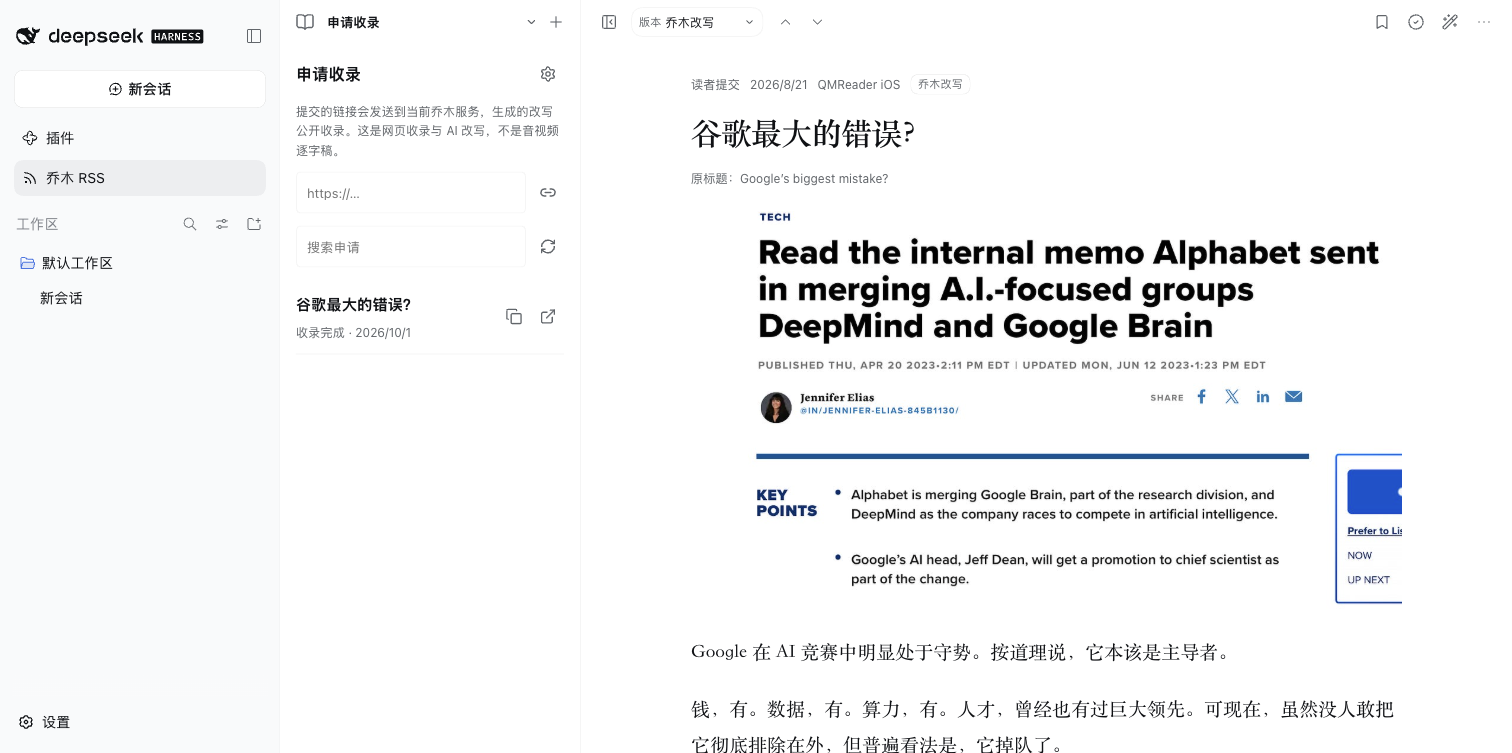
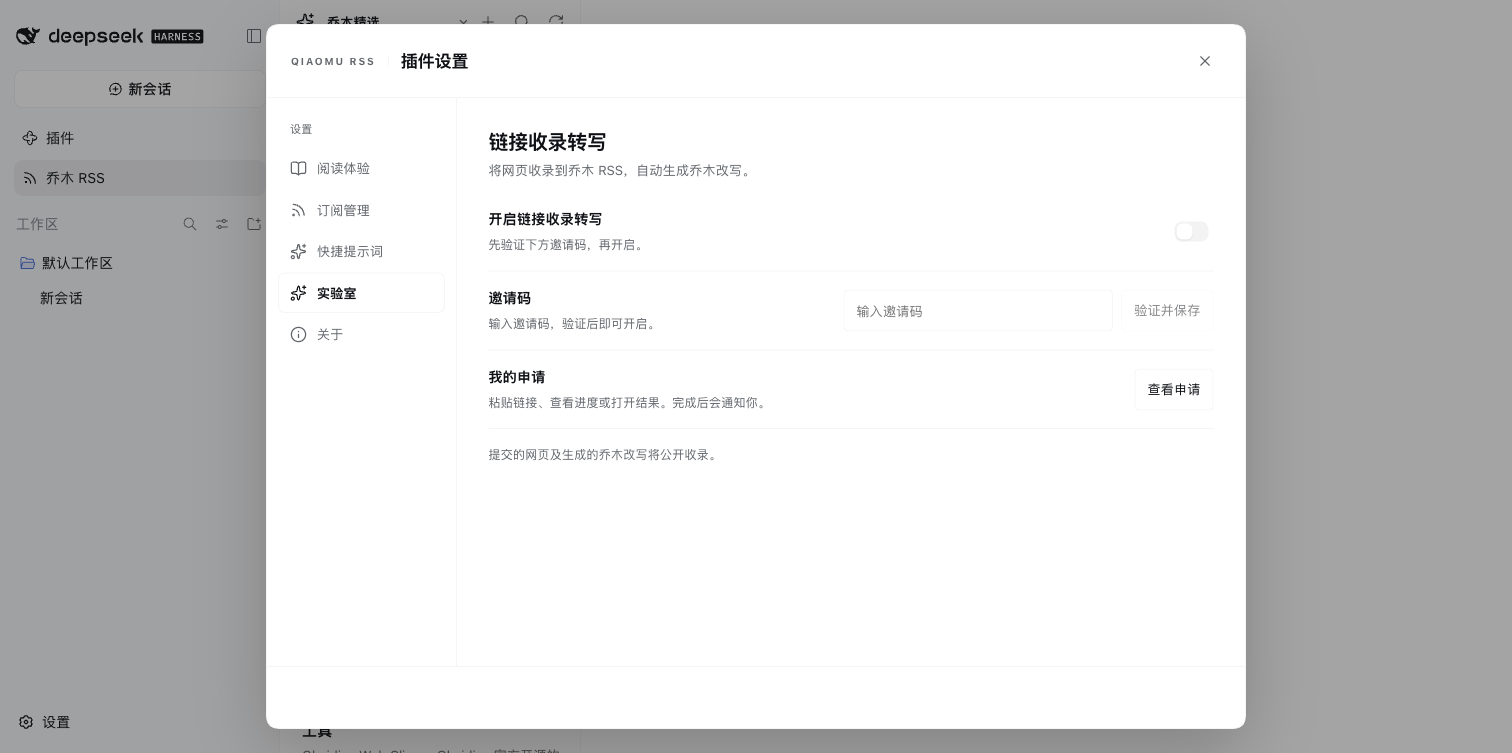
fix: align Labs settings and actions with Obsidian

diff --git a/lib/client.js b/lib/client.js
@@ -1449,22 +1449,32 @@ var import_react6 = require("react");
 var messages = {
   zh: {
     lab: "\u5B9E\u9A8C\u5BA4",
-    title: "\u94FE\u63A5\u6536\u5F55\u4E0E\u6539\u5199",
-    intro: "\u628A\u7F51\u9875\u4EA4\u7ED9\u4E54\u6728\u670D\u52A1\u6536\u5F55\uFF0C\u5B8C\u6210\u540E\u5728\u8FD9\u91CC\u9605\u8BFB\u548C\u63D0\u95EE\u3002",
-    disclosure: "\u63D0\u4EA4\u7684\u94FE\u63A5\u4F1A\u53D1\u9001\u5230\u5F53\u524D\u4E54\u6728\u670D\u52A1\uFF0C\u751F\u6210\u7684\u6539\u5199\u516C\u5F00\u6536\u5F55\u3002\u8FD9\u662F\u7F51\u9875\u6536\u5F55\u4E0E AI \u6539\u5199\uFF0C\u4E0D\u662F\u97F3\u89C6\u9891\u9010\u5B57\u7A3F\u3002",
-    enabled: "\u542F\u7528\u94FE\u63A5\u6536\u5F55",
+    enableFirst: "\u5148\u9A8C\u8BC1\u4E0B\u65B9\u9080\u8BF7\u7801\uFF0C\u518D\u5F00\u542F\u3002",
+    enableHint: "\u5F00\u542F\u540E\uFF0C\u53F3\u952E\u6587\u7AE0\u4E2D\u7684\u94FE\u63A5\uFF0C\u9009\u62E9\u201C\u7533\u8BF7\u6536\u5F55\u8F6C\u5199\u201D\u3002\u66F4\u6539\u81EA\u52A8\u4FDD\u5B58\u3002",
+    inviteDraft: "\u70B9\u51FB\u201C\u9A8C\u8BC1\u5E76\u4FDD\u5B58\u201D\uFF0C\u786E\u8BA4\u9080\u8BF7\u7801\u53EF\u7528\u3002",
+    replaceInvite: "\u5DF2\u4FDD\u5B58\uFF1B\u8F93\u5165\u53EF\u66F4\u6362",
+    myRequests: "\u6211\u7684\u7533\u8BF7",
+    requestsHint: "\u7C98\u8D34\u94FE\u63A5\u3001\u67E5\u770B\u8FDB\u5EA6\u6216\u6253\u5F00\u7ED3\u679C\u3002\u5B8C\u6210\u540E\u4F1A\u901A\u77E5\u4F60\u3002",
+    viewRequests: "\u67E5\u770B\u7533\u8BF7",
+    loading: "\u6B63\u5728\u52A0\u8F7D\u2026",
+    enabledNotice: "\u94FE\u63A5\u6536\u5F55\u8F6C\u5199\u5DF2\u5F00\u542F",
+    disabledNotice: "\u94FE\u63A5\u6536\u5F55\u8F6C\u5199\u5DF2\u5173\u95ED",
+    title: "\u94FE\u63A5\u6536\u5F55\u8F6C\u5199",
+    intro: "\u5C06\u7F51\u9875\u6536\u5F55\u5230\u4E54\u6728 RSS\uFF0C\u81EA\u52A8\u751F\u6210\u4E54\u6728\u6539\u5199\u3002",
+    disclosure: "\u63D0\u4EA4\u7684\u7F51\u9875\u53CA\u751F\u6210\u7684\u4E54\u6728\u6539\u5199\u5C06\u516C\u5F00\u6536\u5F55\u3002",
+    enabled: "\u5F00\u542F\u94FE\u63A5\u6536\u5F55\u8F6C\u5199",
     invite: "\u9080\u8BF7\u7801",
-    inviteHint: "\u8F93\u5165\u9080\u8BF7\u7801\uFF1B\u7559\u7A7A\u4FDD\u7559\u5DF2\u9A8C\u8BC1\u914D\u7F6E",
+    inviteHint: "\u8F93\u5165\u9080\u8BF7\u7801",
     verify: "\u9A8C\u8BC1\u5E76\u4FDD\u5B58",
     save: "\u4FDD\u5B58",
-    saving: "\u5904\u7406\u4E2D\u2026",
+    saving: "\u9A8C\u8BC1\u4E2D\u2026",
     verified: "\u9080\u8BF7\u7801\u5DF2\u9A8C\u8BC1",
-    unverified: "\u5C1A\u672A\u9A8C\u8BC1\u9080\u8BF7\u7801",
+    unverified: "\u8F93\u5165\u9080\u8BF7\u7801\uFF0C\u9A8C\u8BC1\u540E\u5373\u53EF\u5F00\u542F\u3002",
     url: "\u7F51\u9875\u94FE\u63A5",
     submit: "\u63D0\u4EA4\u6536\u5F55",
     submitting: "\u63D0\u4EA4\u4E2D\u2026",
     submitted: "\u6536\u5F55\u7533\u8BF7\u5DF2\u4FDD\u5B58",
-    jobs: "\u7533\u8BF7\u6536\u5F55",
+    jobs: "\u6211\u7684\u7533\u8BF7",
     refresh: "\u5237\u65B0\u7533\u8BF7",
     more: "\u52A0\u8F7D\u66F4\u591A\u7533\u8BF7",
     empty: "\u8FD8\u6CA1\u6709\u6536\u5F55\u7533\u8BF7",
@@ -1477,7 +1487,7 @@ var messages = {
     failed: "\u5904\u7406\u5931\u8D25",
     copy: "\u590D\u5236\u94FE\u63A5",
     copied: "\u94FE\u63A5\u5DF2\u590D\u5236",
-    request: "\u7533\u8BF7\u6536\u5F55\u6539\u5199",
+    request: "\u7533\u8BF7\u6536\u5F55\u8F6C\u5199",
     settings: "\u5B9E\u9A8C\u5BA4\u8BBE\u7F6E",
     configured: "\u5B9E\u9A8C\u5BA4\u8BBE\u7F6E\u5DF2\u4FDD\u5B58",
     offline: "\u6682\u65F6\u65E0\u6CD5\u540C\u6B65\uFF0C\u5DF2\u4FDD\u7559\u672C\u673A\u7533\u8BF7",
@@ -1486,9 +1496,19 @@ var messages = {
   },
   en: {
     lab: "Labs",
+    enableFirst: "Verify your invitation code below to enable this feature.",
+    enableHint: "Right-click a link in an article and choose \u201CCollect and rewrite\u201D. Changes save automatically.",
+    inviteDraft: "Choose \u201CVerify and save\u201D to check this code.",
+    replaceInvite: "Saved; enter a code to replace it",
+    myRequests: "My requests",
+    requestsHint: "Paste a link, check progress or read results. You will be notified on completion.",
+    viewRequests: "View requests",
+    loading: "Loading\u2026",
+    enabledNotice: "Link collection enabled",
+    disabledNotice: "Link collection disabled",
     title: "Collect and rewrite links",
     intro: "Submit a web page to Qiaomu, then read and discuss the result here.",
-    disclosure: "Links are sent to the current Qiaomu service and rewrites are publicly collected. This creates web article rewrites, not audio/video transcripts.",
+    disclosure: "Submitted web pages and generated rewrites are publicly collected.",
     enabled: "Enable link collection",
     invite: "Invitation code",
     inviteHint: "Enter a code; leave blank to keep the verified configuration",
@@ -1539,10 +1559,7 @@ function clickedLink(event, root) {
 var import_jsx_runtime5 = require("react/jsx-runtime");
 function CollectionSettings({ api, notify, onOpenRequests }) {
   const copy = collectionCopy();
-  const [state, setState] = (0, import_react6.useState)(null);
-  const [invite, setInvite] = (0, import_react6.useState)("");
-  const [busy, setBusy] = (0, import_react6.useState)(false);
-  const [error, setError] = (0, import_react6.useState)("");
+  const [state, setState] = (0, import_react6.useState)(null), [invite, setInvite] = (0, import_react6.useState)(""), [busy, setBusy] = (0, import_react6.useState)(false), [error, setError] = (0, import_react6.useState)("");
   (0, import_react6.useEffect)(() => {
     let live = true;
     api.getCollectionSettings().then((result) => {
@@ -1554,43 +1571,63 @@ function CollectionSettings({ api, notify, onOpenRequests }) {
       live = false;
     };
   }, [api]);
-  return /* @__PURE__ */ (0, import_jsx_runtime5.jsxs)("section", { "aria-label": copy.lab, children: [
+  const save = async (patch) => {
+    setBusy(true);
+    setError("");
+    try {
+      const result = await api.configureCollection({ enabled: state.enabled, ...patch });
+      setState(result);
+      if (patch.invite) setInvite("");
+      window.dispatchEvent(new Event("qrs-collection-changed"));
+      notify(patch.invite ? copy.verified : result.enabled ? copy.enabledNotice : copy.disabledNotice);
+    } catch (error2) {
+      setError(error2.message);
+    } finally {
+      setBusy(false);
+    }
+  };
+  return /* @__PURE__ */ (0, import_jsx_runtime5.jsxs)("section", { "aria-label": copy.lab, className: "qrs-lab-settings", children: [
     /* @__PURE__ */ (0, import_jsx_runtime5.jsxs)("div", { className: "qrs-settings-intro", children: [
       /* @__PURE__ */ (0, import_jsx_runtime5.jsx)("h2", { children: copy.title }),
       /* @__PURE__ */ (0, import_jsx_runtime5.jsx)("p", { children: copy.intro })
     ] }),
-    /* @__PURE__ */ (0, import_jsx_runtime5.jsxs)("div", { className: "qrs-settings-card", children: [
-      /* @__PURE__ */ (0, import_jsx_runtime5.jsx)("p", { children: copy.disclosure }),
-      state && /* @__PURE__ */ (0, import_jsx_runtime5.jsxs)("form", { onSubmit: async (event) => {
-        event.preventDefault();
-        setBusy(true);
-        setError("");
-        try {
-          const result = await api.configureCollection({ enabled: state.enabled, ...invite.trim() ? { invite: invite.trim() } : {} });
-          setState(result);
-          setInvite("");
-          window.dispatchEvent(new Event("qrs-collection-changed"));
-          notify(copy.configured);
-        } catch (error2) {
-          setError(error2.message);
-        } finally {
-          setBusy(false);
-        }
-      }, children: [
-        /* @__PURE__ */ (0, import_jsx_runtime5.jsxs)("label", { className: "qrs-collection-toggle", children: [
-          /* @__PURE__ */ (0, import_jsx_runtime5.jsx)("input", { type: "checkbox", checked: state.enabled, disabled: busy, onChange: (event) => setState({ ...state, enabled: event.target.checked }) }),
-          copy.enabled
+    state ? /* @__PURE__ */ (0, import_jsx_runtime5.jsxs)("div", { className: "qrs-lab-rows", children: [
+      /* @__PURE__ */ (0, import_jsx_runtime5.jsxs)("div", { className: "qrs-lab-row", children: [
+        /* @__PURE__ */ (0, import_jsx_runtime5.jsxs)("div", { className: "qrs-lab-info", children: [
+          /* @__PURE__ */ (0, import_jsx_runtime5.jsx)("h3", { children: copy.enabled }),
+          /* @__PURE__ */ (0, import_jsx_runtime5.jsx)("p", { id: "qrs-lab-enable-hint", children: state.verified ? copy.enableHint : copy.enableFirst })
         ] }),
-        /* @__PURE__ */ (0, import_jsx_runtime5.jsxs)("label", { className: "qrs-settings-url", children: [
-          /* @__PURE__ */ (0, import_jsx_runtime5.jsx)("span", { children: copy.invite }),
-          /* @__PURE__ */ (0, import_jsx_runtime5.jsx)("input", { type: "password", autoComplete: "off", "aria-label": copy.invite, placeholder: copy.inviteHint, value: invite, disabled: busy, onChange: (event) => setInvite(event.target.value) })
-        ] }),
-        /* @__PURE__ */ (0, import_jsx_runtime5.jsx)("p", { role: "status", children: state.verified ? copy.verified : copy.unverified }),
-        /* @__PURE__ */ (0, import_jsx_runtime5.jsx)("button", { className: "qrs-collection-button", type: "submit", disabled: busy || !state.verified && !invite.trim(), children: busy ? copy.saving : invite.trim() ? copy.verify : copy.save })
+        /* @__PURE__ */ (0, import_jsx_runtime5.jsxs)("label", { className: "qrs-switch qrs-lab-switch", children: [
+          /* @__PURE__ */ (0, import_jsx_runtime5.jsx)("input", { type: "checkbox", role: "switch", "aria-label": copy.enabled, "aria-describedby": "qrs-lab-enable-hint", checked: state.enabled, disabled: busy || !state.verified, onChange: (event) => void save({ enabled: event.target.checked }) }),
+          /* @__PURE__ */ (0, import_jsx_runtime5.jsx)("span", { "aria-hidden": "true" })
+        ] })
       ] }),
-      state?.verified && onOpenRequests && /* @__PURE__ */ (0, import_jsx_runtime5.jsx)("button", { className: "qrs-collection-button", onClick: onOpenRequests, children: copy.jobs }),
-      error && /* @__PURE__ */ (0, import_jsx_runtime5.jsx)("p", { role: "alert", className: "qrs-collection-error", children: error })
-    ] })
+      /* @__PURE__ */ (0, import_jsx_runtime5.jsxs)("form", { className: "qrs-lab-row", onSubmit: (event) => {
+        event.preventDefault();
+        if (!busy && invite.trim()) void save({ invite: invite.trim() });
+      }, children: [
+        /* @__PURE__ */ (0, import_jsx_runtime5.jsxs)("div", { className: "qrs-lab-info", children: [
+          /* @__PURE__ */ (0, import_jsx_runtime5.jsx)("h3", { id: "qrs-lab-invite-label", children: copy.invite }),
+          /* @__PURE__ */ (0, import_jsx_runtime5.jsx)("p", { id: "qrs-lab-invite-status", role: "status", "aria-live": "polite", children: invite.trim() ? copy.inviteDraft : state.verified ? copy.verified : copy.unverified })
+        ] }),
+        /* @__PURE__ */ (0, import_jsx_runtime5.jsxs)("div", { className: "qrs-lab-controls", children: [
+          /* @__PURE__ */ (0, import_jsx_runtime5.jsx)("input", { type: "password", autoComplete: "off", "aria-labelledby": "qrs-lab-invite-label", "aria-describedby": "qrs-lab-invite-status", placeholder: state.verified ? copy.replaceInvite : copy.inviteHint, value: invite, disabled: busy, onChange: (event) => {
+            setInvite(event.target.value);
+            setError("");
+          } }),
+          /* @__PURE__ */ (0, import_jsx_runtime5.jsx)("button", { className: "qrs-collection-button", type: "submit", disabled: busy || !invite.trim(), children: busy ? copy.saving : copy.verify })
+        ] })
+      ] }),
+      /* @__PURE__ */ (0, import_jsx_runtime5.jsxs)("div", { className: "qrs-lab-row", children: [
+        /* @__PURE__ */ (0, import_jsx_runtime5.jsxs)("div", { className: "qrs-lab-info", children: [
+          /* @__PURE__ */ (0, import_jsx_runtime5.jsx)("h3", { children: copy.myRequests }),
+          /* @__PURE__ */ (0, import_jsx_runtime5.jsx)("p", { children: copy.requestsHint })
+        ] }),
+        /* @__PURE__ */ (0, import_jsx_runtime5.jsx)("button", { className: "qrs-collection-button", type: "button", disabled: !onOpenRequests || busy, onClick: onOpenRequests, children: copy.viewRequests })
+      ] }),
+      /* @__PURE__ */ (0, import_jsx_runtime5.jsx)("p", { className: "qrs-lab-note", children: copy.disclosure })
+    ] }) : !error && /* @__PURE__ */ (0, import_jsx_runtime5.jsx)("p", { className: "qrs-settings-hint", role: "status", children: copy.loading }),
+    error && /* @__PURE__ */ (0, import_jsx_runtime5.jsx)("p", { role: "alert", className: "qrs-collection-error", children: error })
   ] });
 }
 function CollectionPanel({ api, onOpen, onSettings, notify, revision = 0 }) {
@@ -1706,7 +1743,7 @@ var import_react10 = require("react");
 var package_default = {
   name: "qiaomu-rss-dsh",
   description: "Qiaomu RSS reader for dsh: featured + personal feeds, AI translation/rewrite assist, agent tools, and a web reading panel",
-  version: "0.7.0",
+  version: "0.7.1",
   private: true,
   license: "GPL-3.0-only",
   repository: {
@@ -19453,6 +19490,27 @@ var refinements_default = `
 .qrs-collection-error{font-size:12px;color:var(--dsw-alias-state-error-primary);overflow-wrap:anywhere}
 .qrs-root .qrs-link-menu{position:fixed;right:auto;z-index:120;min-width:215px}
 .qrs-original-title{margin:-12px 0 22px}
+
+/* Labs follows Obsidian's setting rows: information left, controls right. */
+.qrs-settings-content section.qrs-lab-settings { display:block; }
+.qrs-lab-settings .qrs-settings-intro { margin-bottom: 12px; }
+.qrs-lab-settings .qrs-settings-intro h2 { font-size: 20px; }
+.qrs-lab-rows { max-width: 840px; }
+.qrs-lab-row { display:flex; align-items:center; justify-content:space-between; gap:24px; padding:16px 0; border-bottom:1px solid var(--qrs-border); }
+.qrs-lab-info { flex:1; min-width:0; }
+.qrs-lab-info h3 { margin:0; font-size:14px; font-weight:600; }
+.qrs-lab-info p { margin:6px 0 0; color:var(--qrs-muted); font-size:12px; line-height:1.65; }
+.qrs-lab-controls { display:flex; align-items:center; gap:8px; flex:0 1 370px; min-width:0; }
+.qrs-lab-controls input { width:100%; min-width:0; height:42px; box-sizing:border-box; padding:0 12px; border:1px solid var(--qrs-border); border-radius:6px; background:var(--qrs-bg); color:var(--qrs-fg); font:inherit; font-size:13px; }
+.qrs-lab-controls input:focus-visible { outline:1px solid var(--qrs-accent); outline-offset:2px; }
+.qrs-lab-row .qrs-collection-button { flex-shrink:0; white-space:nowrap; font-size:13px; min-height:42px; }
+.qrs-lab-switch { min-width:44px; min-height:44px; justify-content:center; flex-shrink:0; }
+.qrs-lab-switch:has(input:disabled) { opacity:.45; cursor:default; }
+.qrs-lab-note { color:var(--qrs-muted); font-size:12px; line-height:1.6; margin:16px 0; }
+@media(max-width:760px) {
+  .qrs-lab-row { gap:12px; flex-wrap:wrap; }
+  .qrs-lab-controls { flex-basis:100%; }
+}
 `;
 
 // src/client/ReaderPage.jsx

diff --git a/src/client/CollectionPanel.jsx b/src/client/CollectionPanel.jsx
@@ -3,22 +3,36 @@ import { Copy, Link2, RefreshCw, ExternalLink, RotateCcw, Settings } from 'lucid
 import { collectionCopy } from './collection-copy.js';
 
 export function CollectionSettings({ api, notify, onOpenRequests }) {
-  const copy = collectionCopy(); const [state, setState] = useState(null); const [invite, setInvite] = useState(''); const [busy, setBusy] = useState(false); const [error, setError] = useState('');
+  const copy = collectionCopy();
+  const [state, setState] = useState(null), [invite, setInvite] = useState(''), [busy, setBusy] = useState(false), [error, setError] = useState('');
   useEffect(() => { let live = true; api.getCollectionSettings().then(result => { if (live) setState(result); }).catch(error => { if (live) setError(error.message); }); return () => { live = false; }; }, [api]);
-  return <section aria-label={copy.lab}><div className="qrs-settings-intro"><h2>{copy.title}</h2><p>{copy.intro}</p></div>
-    <div className="qrs-settings-card"><p>{copy.disclosure}</p>
-      {state && <form onSubmit={async event => { event.preventDefault(); setBusy(true); setError(''); try {
-        const result = await api.configureCollection({ enabled: state.enabled, ...(invite.trim() ? { invite: invite.trim() } : {}) });
-        setState(result); setInvite(''); window.dispatchEvent(new Event('qrs-collection-changed')); notify(copy.configured);
-      } catch (error) { setError(error.message); } finally { setBusy(false); } }}>
-        <label className="qrs-collection-toggle"><input type="checkbox" checked={state.enabled} disabled={busy} onChange={event => setState({ ...state, enabled: event.target.checked })} />{copy.enabled}</label>
-        <label className="qrs-settings-url"><span>{copy.invite}</span><input type="password" autoComplete="off" aria-label={copy.invite} placeholder={copy.inviteHint} value={invite} disabled={busy} onChange={event => setInvite(event.target.value)} /></label>
-        <p role="status">{state.verified ? copy.verified : copy.unverified}</p>
-        <button className="qrs-collection-button" type="submit" disabled={busy || (!state.verified && !invite.trim())}>{busy ? copy.saving : invite.trim() ? copy.verify : copy.save}</button>
-      </form>}
-      {state?.verified && onOpenRequests && <button className="qrs-collection-button" onClick={onOpenRequests}>{copy.jobs}</button>}
-      {error && <p role="alert" className="qrs-collection-error">{error}</p>}
-    </div>
+  const save = async patch => {
+    setBusy(true); setError('');
+    try {
+      const result = await api.configureCollection({ enabled: state.enabled, ...patch });
+      setState(result); if (patch.invite) setInvite('');
+      window.dispatchEvent(new Event('qrs-collection-changed'));
+      notify(patch.invite ? copy.verified : result.enabled ? copy.enabledNotice : copy.disabledNotice);
+    } catch (error) { setError(error.message); } finally { setBusy(false); }
+  };
+  return <section aria-label={copy.lab} className="qrs-lab-settings">
+    <div className="qrs-settings-intro"><h2>{copy.title}</h2><p>{copy.intro}</p></div>
+    {state ? <div className="qrs-lab-rows">
+      <div className="qrs-lab-row">
+        <div className="qrs-lab-info"><h3>{copy.enabled}</h3><p id="qrs-lab-enable-hint">{state.verified ? copy.enableHint : copy.enableFirst}</p></div>
+        <label className="qrs-switch qrs-lab-switch"><input type="checkbox" role="switch" aria-label={copy.enabled} aria-describedby="qrs-lab-enable-hint" checked={state.enabled} disabled={busy || !state.verified} onChange={event => void save({ enabled: event.target.checked })} /><span aria-hidden="true" /></label>
+      </div>
+      <form className="qrs-lab-row" onSubmit={event => { event.preventDefault(); if (!busy && invite.trim()) void save({ invite: invite.trim() }); }}>
+        <div className="qrs-lab-info"><h3 id="qrs-lab-invite-label">{copy.invite}</h3><p id="qrs-lab-invite-status" role="status" aria-live="polite">{invite.trim() ? copy.inviteDraft : state.verified ? copy.verified : copy.unverified}</p></div>
+        <div className="qrs-lab-controls"><input type="password" autoComplete="off" aria-labelledby="qrs-lab-invite-label" aria-describedby="qrs-lab-invite-status" placeholder={state.verified ? copy.replaceInvite : copy.inviteHint} value={invite} disabled={busy} onChange={event => { setInvite(event.target.value); setError(''); }} /><button className="qrs-collection-button" type="submit" disabled={busy || !invite.trim()}>{busy ? copy.saving : copy.verify}</button></div>
+      </form>
+      <div className="qrs-lab-row">
+        <div className="qrs-lab-info"><h3>{copy.myRequests}</h3><p>{copy.requestsHint}</p></div>
+        <button className="qrs-collection-button" type="button" disabled={!onOpenRequests || busy} onClick={onOpenRequests}>{copy.viewRequests}</button>
+      </div>
+      <p className="qrs-lab-note">{copy.disclosure}</p>
+    </div> : !error && <p className="qrs-settings-hint" role="status">{copy.loading}</p>}
+    {error && <p role="alert" className="qrs-collection-error">{error}</p>}
   </section>;
 }
 export function CollectionPanel({ api, onOpen, onSettings, notify, revision = 0 }) {

diff --git a/src/client/collection-copy.js b/src/client/collection-copy.js
@@ -1,15 +1,15 @@
 const messages = {
   zh: {
-    lab: '实验室', title: '链接收录与改写', intro: '把网页交给乔木服务收录，完成后在这里阅读和提问。',
-    disclosure: '提交的链接会发送到当前乔木服务，生成的改写公开收录。这是网页收录与 AI 改写，不是音视频逐字稿。',
-    enabled: '启用链接收录', invite: '邀请码', inviteHint: '输入邀请码；留空保留已验证配置', verify: '验证并保存', save: '保存', saving: '处理中…', verified: '邀请码已验证', unverified: '尚未验证邀请码',
-    url: '网页链接', submit: '提交收录', submitting: '提交中…', submitted: '收录申请已保存', jobs: '申请收录',
+    lab: '实验室', enableFirst: '先验证下方邀请码，再开启。', enableHint: '开启后，右键文章中的链接，选择“申请收录转写”。更改自动保存。', inviteDraft: '点击“验证并保存”，确认邀请码可用。', replaceInvite: '已保存；输入可更换', myRequests: '我的申请', requestsHint: '粘贴链接、查看进度或打开结果。完成后会通知你。', viewRequests: '查看申请', loading: '正在加载…', enabledNotice: '链接收录转写已开启', disabledNotice: '链接收录转写已关闭', title: '链接收录转写', intro: '将网页收录到乔木 RSS，自动生成乔木改写。',
+    disclosure: '提交的网页及生成的乔木改写将公开收录。',
+    enabled: '开启链接收录转写', invite: '邀请码', inviteHint: '输入邀请码', verify: '验证并保存', save: '保存', saving: '验证中…', verified: '邀请码已验证', unverified: '输入邀请码，验证后即可开启。',
+    url: '网页链接', submit: '提交收录', submitting: '提交中…', submitted: '收录申请已保存', jobs: '我的申请',
     refresh: '刷新申请', more: '加载更多申请', empty: '还没有收录申请', open: '打开阅读', retry: '重试', close: '关闭',
-    queued: '等待处理', running: '正在处理', complete: '收录完成', failed: '处理失败', copy: '复制链接', copied: '链接已复制', request: '申请收录改写', settings: '实验室设置', configured: '实验室设置已保存', offline: '暂时无法同步，已保留本机申请', original: '原标题', search: '搜索申请',
+    queued: '等待处理', running: '正在处理', complete: '收录完成', failed: '处理失败', copy: '复制链接', copied: '链接已复制', request: '申请收录转写', settings: '实验室设置', configured: '实验室设置已保存', offline: '暂时无法同步，已保留本机申请', original: '原标题', search: '搜索申请',
   },
   en: {
-    lab: 'Labs', title: 'Collect and rewrite links', intro: 'Submit a web page to Qiaomu, then read and discuss the result here.',
-    disclosure: 'Links are sent to the current Qiaomu service and rewrites are publicly collected. This creates web article rewrites, not audio/video transcripts.',
+    lab: 'Labs', enableFirst: 'Verify your invitation code below to enable this feature.', enableHint: 'Right-click a link in an article and choose “Collect and rewrite”. Changes save automatically.', inviteDraft: 'Choose “Verify and save” to check this code.', replaceInvite: 'Saved; enter a code to replace it', myRequests: 'My requests', requestsHint: 'Paste a link, check progress or read results. You will be notified on completion.', viewRequests: 'View requests', loading: 'Loading…', enabledNotice: 'Link collection enabled', disabledNotice: 'Link collection disabled', title: 'Collect and rewrite links', intro: 'Submit a web page to Qiaomu, then read and discuss the result here.',
+    disclosure: 'Submitted web pages and generated rewrites are publicly collected.',
     enabled: 'Enable link collection', invite: 'Invitation code', inviteHint: 'Enter a code; leave blank to keep the verified configuration', verify: 'Verify and save', save: 'Save', saving: 'Working…', verified: 'Invitation verified', unverified: 'Invitation not verified',
     url: 'Web page link', submit: 'Submit link', submitting: 'Submitting…', submitted: 'Collection request saved', jobs: 'Collection requests',
     refresh: 'Refresh requests', more: 'Load more requests', empty: 'No collection requests yet', open: 'Read result', retry: 'Retry', close: 'Close',

diff --git a/src/client/refinements.css b/src/client/refinements.css
@@ -404,3 +404,24 @@
 .qrs-collection-error{font-size:12px;color:var(--dsw-alias-state-error-primary);overflow-wrap:anywhere}
 .qrs-root .qrs-link-menu{position:fixed;right:auto;z-index:120;min-width:215px}
 .qrs-original-title{margin:-12px 0 22px}
+
+/* Labs follows Obsidian's setting rows: information left, controls right. */
+.qrs-settings-content section.qrs-lab-settings { display:block; }
+.qrs-lab-settings .qrs-settings-intro { margin-bottom: 12px; }
+.qrs-lab-settings .qrs-settings-intro h2 { font-size: 20px; }
+.qrs-lab-rows { max-width: 840px; }
+.qrs-lab-row { display:flex; align-items:center; justify-content:space-between; gap:24px; padding:16px 0; border-bottom:1px solid var(--qrs-border); }
+.qrs-lab-info { flex:1; min-width:0; }
+.qrs-lab-info h3 { margin:0; font-size:14px; font-weight:600; }
+.qrs-lab-info p { margin:6px 0 0; color:var(--qrs-muted); font-size:12px; line-height:1.65; }
+.qrs-lab-controls { display:flex; align-items:center; gap:8px; flex:0 1 370px; min-width:0; }
+.qrs-lab-controls input { width:100%; min-width:0; height:42px; box-sizing:border-box; padding:0 12px; border:1px solid var(--qrs-border); border-radius:6px; background:var(--qrs-bg); color:var(--qrs-fg); font:inherit; font-size:13px; }
+.qrs-lab-controls input:focus-visible { outline:1px solid var(--qrs-accent); outline-offset:2px; }
+.qrs-lab-row .qrs-collection-button { flex-shrink:0; white-space:nowrap; font-size:13px; min-height:42px; }
+.qrs-lab-switch { min-width:44px; min-height:44px; justify-content:center; flex-shrink:0; }
+.qrs-lab-switch:has(input:disabled) { opacity:.45; cursor:default; }
+.qrs-lab-note { color:var(--qrs-muted); font-size:12px; line-height:1.6; margin:16px 0; }
+@media(max-width:760px) {
+  .qrs-lab-row { gap:12px; flex-wrap:wrap; }
+  .qrs-lab-controls { flex-basis:100%; }
+}

diff --git a/lib/index.js b/lib/index.js
@@ -1751,7 +1751,7 @@ var RssService = class extends TypertRemoteService {
       unread: countUnread(this.entriesOf("feeds:all")),
       total: 0
     });
-    if (this.collection.settings().enabled || this.collection.snapshot().jobs.length) channels.push({ key: "collection", kind: "collection", name: "\u7533\u8BF7\u6536\u5F55", unread: 0, total: this.collection.snapshot().jobs.length });
+    if (this.collection.settings().enabled || this.collection.snapshot().jobs.length) channels.push({ key: "collection", kind: "collection", name: "\u6211\u7684\u7533\u8BF7", unread: 0, total: this.collection.snapshot().jobs.length });
     channels.push({ key: "podscribe", kind: "podcast", name: "\u6D77\u5916\u64AD\u5BA2\u539F\u6587", unread: countUnread(data.podcastEntries ?? []), total: (data.podcastEntries ?? []).length });
     const groups = /* @__PURE__ */ new Map();
     for (const sub of data.subscriptions) {

diff --git a/src/host/service.js b/src/host/service.js
@@ -95,7 +95,7 @@ export class RssService extends TypertRemoteService {
       unread: countUnread(this.entriesOf('feeds:all')),
       total: 0,
     });
-    if (this.collection.settings().enabled || this.collection.snapshot().jobs.length) channels.push({ key: 'collection', kind: 'collection', name: '申请收录', unread: 0, total: this.collection.snapshot().jobs.length });
+    if (this.collection.settings().enabled || this.collection.snapshot().jobs.length) channels.push({ key: 'collection', kind: 'collection', name: '我的申请', unread: 0, total: this.collection.snapshot().jobs.length });
     channels.push({ key: 'podscribe', kind: 'podcast', name: '海外播客原文', unread: countUnread(data.podcastEntries ?? []), total: (data.podcastEntries ?? []).length });
     const groups = new Map();
     for (const sub of data.subscriptions) {

diff --git a/README.md b/README.md
@@ -37,7 +37,7 @@ Read RSS inside DeepSeek Harness and discuss the current article in its native A
 
 链接会发送到设置中的乔木服务，生成的改写公开收录。此功能是网页收录和 AI 改写，与「海外播客原文」提供的已有逐字稿不同。实验室默认关闭。邀请码与实例访问密钥保存在本机插件数据中，不返回通用设置，不提供 Agent 提交工具；管理员管理功能本版未迁移。
 
-![隔离 Harness 中的链接收录与中文改写](docs/screenshots/link-collection.png)
+![Harness 实验室：验证邀请码、开启收录和查看申请](docs/screenshots/link-collection.png)
 
 ## 真实界面
 
@@ -63,8 +63,8 @@ Read RSS inside DeepSeek Harness and discuss the current article in its native A
 需要 DeepSeek Harness 0.2.0-rc.2 的 `dsh` CLI。下载 [v0.7.0 Release](https://github.com/joeseesun/qiaomu-rss-dsh/releases/tag/v0.7.0) 中的 `.tgz` 和同名 `.sha256` 文件，在下载目录执行：
 
 ```bash
-shasum -a 256 -c qiaomu-rss-dsh-0.7.0.tgz.sha256
-dsh plugin --profile desktop add "$PWD/qiaomu-rss-dsh-0.7.0.tgz"
+shasum -a 256 -c qiaomu-rss-dsh-0.7.1.tgz.sha256
+dsh plugin --profile desktop add "$PWD/qiaomu-rss-dsh-0.7.1.tgz"
 ```
 
 使用命令行 Web 界面时，把 `desktop` 换为 `web`。安装后重启对应的 Harness profile，在侧边栏打开「乔木 RSS」。[官方插件安装说明](https://github.com/deepseek-ai/deepseek-harness/blob/master/docs/user/develop/basic/publish.md)介绍了 bundle 与 profile 的关系。插件依赖 Harness 已配置的模型与账号；默认无需再选工作区。
@@ -108,6 +108,6 @@ The [live desktop screenshots](#真实界面) show a real feed, the rewritten re
 
 Qiaomu RSS brings curated and personal RSS/Atom feeds into DeepSeek Harness. Read the original, translated, or rewritten article; manage unread items and favorites; import/export OPML; and open a native Harness AI conversation beside the article with its reading context attached. The companion opens directly in the default workspace. The article/chat divider is resizable.
 
-This is an open-source community plugin, not maintained or endorsed by DeepSeek. A prebuilt tarball is available from [GitHub Releases](https://github.com/joeseesun/qiaomu-rss-dsh/releases); it is not published to npm. With the DeepSeek Harness 0.2.0-rc.2 CLI, download the `.tgz` and `.sha256` files, verify them with `shasum -a 256 -c qiaomu-rss-dsh-0.7.0.tgz.sha256`, then run `dsh plugin --profile desktop add /absolute/path/to/qiaomu-rss-dsh-0.7.0.tgz` and restart the profile. Use `web` instead of `desktop` for the Web profile. The previous package was installed and booted in an isolated Web profile, and its Desktop reading and AI-companion flow was checked in the installed app. This release workflow also verified an isolated package install, host boot, real article loading, switching to an existing rewritten version, and subscription discovery. For v0.6.0, selected-passage translation was exercised in the Desktop native conversation: the answer translated the selected passage only. The selected passage appears inside the composer as an expandable, removable quote; the article supplies background context. Labs can submit public web links for collection and rewrites with a verified invitation. Requests persist across restarts, support progress tracking and retry, and open completed results in the reader. Submitted links and generated rewrites are publicly collected by the configured Qiaomu service. Invitation and instance credentials stay in Host storage; no Agent submission tool or administrator interface is exposed. Podcast discovery can import existing full transcripts from the public Podscribe catalog. For development, use Node.js 22+ and run `npm ci`, `npm run build`, and `npm test`. The generated `lib/` files are committed because the DSH bundle loads them.
+This is an open-source community plugin, not maintained or endorsed by DeepSeek. A prebuilt tarball is available from [GitHub Releases](https://github.com/joeseesun/qiaomu-rss-dsh/releases); it is not published to npm. With the DeepSeek Harness 0.2.0-rc.2 CLI, download the `.tgz` and `.sha256` files, verify them with `shasum -a 256 -c qiaomu-rss-dsh-0.7.1.tgz.sha256`, then run `dsh plugin --profile desktop add /absolute/path/to/qiaomu-rss-dsh-0.7.1.tgz` and restart the profile. Use `web` instead of `desktop` for the Web profile. The previous package was installed and booted in an isolated Web profile, and its Desktop reading and AI-companion flow was checked in the installed app. This release workflow also verified an isolated package install, host boot, real article loading, switching to an existing rewritten version, and subscription discovery. For v0.6.0, selected-passage translation was exercised in the Desktop native conversation: the answer translated the selected passage only. The selected passage appears inside the composer as an expandable, removable quote; the article supplies background context. Labs can submit public web links for collection and rewrites with a verified invitation. Requests persist across restarts, support progress tracking and retry, and open completed results in the reader. Submitted links and generated rewrites are publicly collected by the configured Qiaomu service. Invitation and instance credentials stay in Host storage; no Agent submission tool or administrator interface is exposed. Podcast discovery can import existing full transcripts from the public Podscribe catalog. For development, use Node.js 22+ and run `npm ci`, `npm run build`, and `npm test`. The generated `lib/` files are committed because the DSH bundle loads them.
 
 Reading data lives in the user's Harness home under `storages/qiaomu-rss/data.json`, outside this repository. The curated feed uses the public [Qiaomu AI RSS](https://github.com/joeseesun/qiaomu-ai-rss) API. AI conversations use the host's configured model and account. Obsidian note, highlight-saving, and daily-note features are intentionally absent. Source is licensed under [GPL-3.0-only](LICENSE); the bundled blog list retains its separate MIT notice.

diff --git a/docs/RELEASE-0.7.1.md b/docs/RELEASE-0.7.1.md
@@ -1,0 +1,10 @@
+# 0.7.1 — 实验室设置交互修订
+
+实验室参照 Obsidian `src/lab-settings.ts` 的设置行布局：左侧名称和说明，右侧开关、输入框和操作按钮。删除大卡片和混在一起的长说明，保留简短公开收录提示。
+
+- 开关即时保存；未验证时解释下一步，避免保存后才提示邀请码缺失。
+- 邀请码输入框旁固定显示“验证并保存”，支持 Enter；输入新码时不会误显示已验证，失败保留草稿。
+- “我的申请 / 查看申请”始终可见，直接进入粘贴链接、进度和结果页。
+- 文案统一为“链接收录转写”和“我的申请”；已有邀请码、请求、订阅和阅读数据格式不变。
+
+验收：`npm run check` 全部通过。回归覆盖无效邀请码保留草稿、Enter 验证、验证不误开启、开关即时保存及申请页跳转。真实独立 Web profile 安装 tgz、启动后，服务端无效邀请码报错及草稿保留、有效邀请码验证、开关开启、查看申请跳转均通过。日用 macOS Desktop 0.2.0-rc.2 已加载并查看实际布局。截图来自无私人数据的独立 Web profile；Windows/Linux 未实机验证。
